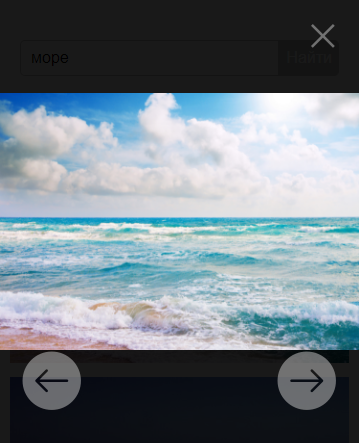
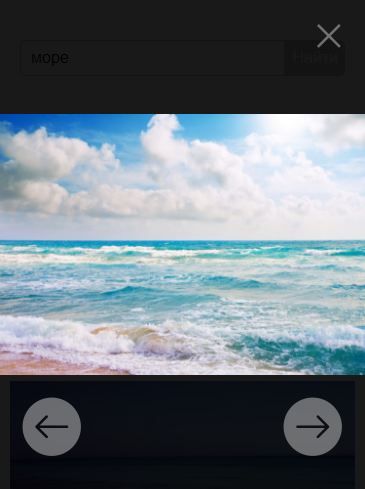
Изменен gridUrl на saucelabs, добавлены новые скрины

diff --git a/.gemini.js b/.gemini.js
@@ -1,6 +1,8 @@
 module.exports = {
     rootUrl: 'http://localhost:3000',
-    gridUrl: 'http://127.0.0.1:4444/wd/hub',
+    gridUrl: 'https://ikononov94:6bdf379a-d405-456e-817a-7591bf853f13@ondemand.saucelabs.com:443/wd/hub',
+
+    windowSize: "1024x768",
 
     browsers: {
         chrome: {
